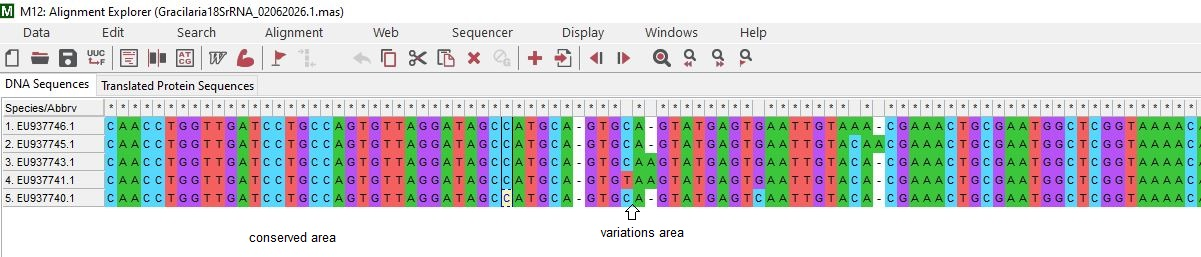
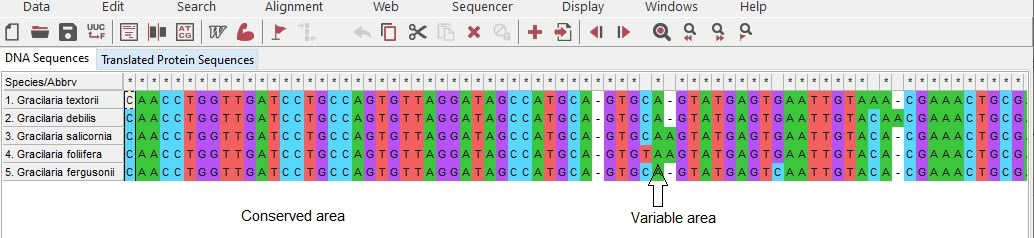
hh

diff --git a/_posts/2026-06-27_Houskeeping_and_Target_Genes_Post.md b/_posts/2026-06-27_Houskeeping_and_Target_Genes_Post.md
@@ -1,0 +1,130 @@
+# Molecular Responses of Coral Holobionts to Thermal Stress
+
+## Introduction
+
+Over the last several decades, rising global sea surface temperatures (SST) have driven a severe deterioration of marine ecosystems worldwide by inducing the breakdown of the coral-algal symbiosis under heat stress, leading to widespread coral bleaching and accelerated mortality (Swinhoe et al., 2026). These escalating thermal anomalies critically disrupt the early life-history stages of reef-building species, compromising larval and juvenile survival and directly threatening long-term coral recruitment and reef persistence (Drury et al., 2022). Consequently, major research efforts have focused on unraveling the underlying molecular, genetic, and physiological mechanisms that govern either damage susceptibility or adaptive thermal tolerance pathways within scleractinian holobionts. 
+
+The majority of reef-building corals maintain a mutualistic symbiosis with symbiotic dinoflagellates, a foundational relationship upon which their survival and capacity to withstand environmental perturbations heavily depend. Because holobiont performance and bleaching susceptibility are directly dictated by the complex interactions between these compartments, corals must be holistically evaluated as an integrated holobiont rather than isolated entities. Consequently, any comprehensive assessment of thermal tolerance must account for the distinct physiological strategies, evolutionary pressures, and mechanisms of mutual support shared between the coral hosts and their endosymbionts. 
+
+In their study, Colín-García et al. (2025) examined these dynamics under elevated temperatures and utilized two specialized housekeeping genes to accurately normalize molecular stress responses via quantitative PCR (qPCR) (Colín-García et al., 2025): 
+* **Elongation Factor 1-alpha (*EF1α*):** A core housekeeping protein essential for cellular translation during the process of protein synthesis, facilitating translational elongation (Sasikumar et al., 2012).
+* **Cyclophilin (*CYC*):** A molecular chaperone that catalyzes cellular protein folding and maintains structural stability under stress conditions (Rosic et al., 2011).
+
+Ultimately, the reference gene *EF1α* was established as the internal reference control for the coral host to provide a stable baseline for cellular normalization, while *CYC* was validated as the internal reference control for the algal symbiont to ensure robust transcriptional evaluation under thermal stress conditions (Colín-García et al., 2025). 
+
+Pelagic larval stages are considered the dominant dispersal mechanism in corals, meaning that thermal tolerance and responsiveness to environmental cues play a key role in the preservation of coral reefs in an era of climate change. In a comprehensive RNA-Seq analysis, Meyer et al. (2011) demonstrated that hundreds of genes exhibit significant differential expression during these early stages, highlighting the complex molecular shifts triggered by environmental stress. Among these critical pathways, heat stress in corals triggers TNFRSF-mediated apoptosis involving the *tnfsf10* gene (Tumor Necrosis Factor Receptor-Associated Ligand 10). Although corals possess nature's most diverse TNFRSF repertoire, this extrinsic pathway remains largely uninvestigated, providing a strong scientific justification for analyzing the target gene *tnfsf10* via qPCR (Quistad et al., 2014). Another group of key target genes comprises the heat shock protein (HSP) family (such as *Hsp70* and *Hsp90*), which encode molecular chaperones (Swinhoe et al., 2026). These chaperones are fundamentally involved in maintaining regular cellular functions, playing a crucial role in preventing protein denaturation under thermal stress. In addition, these highly conserved proteins participate in cell differentiation, morphogenesis, cell signaling, and the overall protection of cells against severe stress and apoptosis (Rosic et al., 2011). 
+
+---
+
+## Experimental Setup and Hypotheses Under Thermal Stress
+
+### Experimental Manipulation
+Thermal stress acts as a major environmental perturbation that disrupts cell homeostasis, destabilizes protein conformations, and induces the breakdown of the coral-algal symbiosis. To unravel the underlying molecular mechanisms governing damage susceptibility or adaptive resilience in scleractinian corals, I chose to evaluate the transcriptional responses of pelagic larval stages subjected to an acute thermal stress manipulation compared to an ambient control group (normal SST temperature conditions).
+
+### 🧬 1. Internal Reference Genes (Expected Stability)
+
+* **Elongation Factor 1-alpha (*EF1α*)**
+  * **Expected Expression:** Highly stable, constant baseline expression levels. 
+  * **Justification:** Given its continuous and fundamental role in translational elongation (Sasikumar et al., 2012), its transcription remains unaffected by environmental shifts, making it an ideal baseline for coral host normalization under thermal stress. 
+
+* **Cyclophilin (*CYC*)**
+  * **Expected Expression:** Constant, unaltered transcription levels across all groups.
+  * **Justification:** As a highly conserved chaperone required for baseline protein folding, its transcriptional resilience under severe thermal and light stress makes it a validated reference control for the *Symbiodiniaceae* compartment (Rosic et al., 2011).
+
+---
+
+### 🎯 2. Experimental Target Genes (Expected Dynamics)
+
+* **Heat Shock Proteins (*HSP*, e.g., *Hsp70* and *Hsp90*)**
+  * **Expected Expression:** Sharp, significant upregulation under elevated temperatures. 
+  * **Justification:** Because heat stress directly denatures cellular proteins, the dynamic overexpression of these molecular chaperones is critically required to mitigate oxidative damage, refold damaged proteins, and prevent thermal bleaching (Rosic et al., 2011; Swinhoe et al., 2026). Furthermore, an early, synchronized upregulation of *hsp70* across both symbiont and host compartments represents a critical molecular strategy that minimizes bleaching susceptibility.
+
+* **Tumor Necrosis Factor Receptor-Associated Ligand 10 (*tnfsf10*)**
+  * **Expected Expression:** Pronounced upregulation corresponding to stress intensity. 
+  * **Justification:** When thermal stress surpasses cellular protective thresholds, the initiation of programmed cell death triggers the extrinsic apoptotic pathway. Tracking *tnfsf10* transcript dynamics serves as a highly sensitive biomarker for quantifying stress-induced cellular mortality (Quistad et al., 2014).# Molecular Responses of Coral Holobionts to Thermal Stress
+
+## Introduction
+
+Over the last several decades, rising global sea surface temperatures (SST) have driven a severe deterioration of marine ecosystems worldwide by inducing the breakdown of the coral-algal symbiosis under heat stress, leading to widespread coral bleaching and accelerated mortality (Swinhoe et al., 2026). These escalating thermal anomalies critically disrupt the early life-history stages of reef-building species, compromising larval and juvenile survival and directly threatening long-term coral recruitment and reef persistence (Drury et al., 2022). Consequently, major research efforts have focused on unraveling the underlying molecular, genetic, and physiological mechanisms that govern either damage susceptibility or adaptive thermal tolerance pathways within scleractinian holobionts. 
+
+The majority of reef-building corals maintain a mutualistic symbiosis with symbiotic dinoflagellates, a foundational relationship upon which their survival and capacity to withstand environmental perturbations heavily depend. Because holobiont performance and bleaching susceptibility are directly dictated by the complex interactions between these compartments, corals must be holistically evaluated as an integrated holobiont rather than isolated entities. Consequently, any comprehensive assessment of thermal tolerance must account for the distinct physiological strategies, evolutionary pressures, and mechanisms of mutual support shared between the coral hosts and their endosymbionts. 
+
+In their study, Colín-García et al. (2025) examined these dynamics under elevated temperatures and utilized two specialized housekeeping genes to accurately normalize molecular stress responses via quantitative PCR (qPCR) (Colín-García et al., 2025): 
+* **Elongation Factor 1-alpha (*EF1α*):** A core housekeeping protein essential for cellular translation during the process of protein synthesis, facilitating translational elongation (Sasikumar et al., 2012).
+* **Cyclophilin (*CYC*):** A molecular chaperone that catalyzes cellular protein folding and maintains structural stability under stress conditions (Rosic et al., 2011).
+
+Ultimately, the reference gene *EF1α* was established as the internal reference control for the coral host to provide a stable baseline for cellular normalization, while *CYC* was validated as the internal reference control for the algal symbiont to ensure robust transcriptional evaluation under thermal stress conditions (Colín-García et al., 2025). 
+
+Pelagic larval stages are considered the dominant dispersal mechanism in corals, meaning that thermal tolerance and responsiveness to environmental cues play a key role in the preservation of coral reefs in an era of climate change. In a comprehensive RNA-Seq analysis, Meyer et al. (2011) demonstrated that hundreds of genes exhibit significant differential expression during these early stages, highlighting the complex molecular shifts triggered by environmental stress. Among these critical pathways, heat stress in corals triggers TNFRSF-mediated apoptosis involving the *tnfsf10* gene (Tumor Necrosis Factor Receptor-Associated Ligand 10). Although corals possess nature's most diverse TNFRSF repertoire, this extrinsic pathway remains largely uninvestigated, providing a strong scientific justification for analyzing the target gene *tnfsf10* via qPCR (Quistad et al., 2014). Another group of key target genes comprises the heat shock protein (HSP) family (such as *Hsp70* and *Hsp90*), which encode molecular chaperones (Swinhoe et al., 2026). These chaperones are fundamentally involved in maintaining regular cellular functions, playing a crucial role in preventing protein denaturation under thermal stress. In addition, these highly conserved proteins participate in cell differentiation, morphogenesis, cell signaling, and the overall protection of cells against severe stress and apoptosis (Rosic et al., 2011). 
+
+---
+
+## Experimental Setup and Hypotheses Under Thermal Stress
+
+### Experimental Manipulation
+Thermal stress acts as a major environmental perturbation that disrupts cell homeostasis, destabilizes protein conformations, and induces the breakdown of the coral-algal symbiosis. To unravel the underlying molecular mechanisms governing damage susceptibility or adaptive resilience in scleractinian corals, I chose to evaluate the transcriptional responses of pelagic larval stages subjected to an acute thermal stress manipulation compared to an ambient control group (normal SST temperature conditions).
+
+### 🧬 1. Internal Reference Genes (Expected Stability)
+
+* **Elongation Factor 1-alpha (*EF1α*)**
+  * **Expected Expression:** Highly stable, constant baseline expression levels. 
+  * **Justification:** Given its continuous and fundamental role in translational elongation (Sasikumar et al., 2012), its transcription remains unaffected by environmental shifts, making it an ideal baseline for coral host normalization under thermal stress. 
+
+* **Cyclophilin (*CYC*)**
+  * **Expected Expression:** Constant, unaltered transcription levels across all groups.
+  * **Justification:** As a highly conserved chaperone required for baseline protein folding, its transcriptional resilience under severe thermal and light stress makes it a validated reference control for the *Symbiodiniaceae* compartment (Rosic et al., 2011).
+
+---
+
+### 🎯 2. Experimental Target Genes (Expected Dynamics)
+
+* **Heat Shock Proteins (*HSP*, e.g., *Hsp70* and *Hsp90*)**
+  * **Expected Expression:** Sharp, significant upregulation under elevated temperatures. 
+  * **Justification:** Because heat stress directly denatures cellular proteins, the dynamic overexpression of these molecular chaperones is critically required to mitigate oxidative damage, refold damaged proteins, and prevent thermal bleaching (Rosic et al., 2011; Swinhoe et al., 2026). Furthermore, an early, synchronized upregulation of *hsp70* across both symbiont and host compartments represents a critical molecular strategy that minimizes bleaching susceptibility.
+
+* **Tumor Necrosis Factor Receptor-Associated Ligand 10 (*tnfsf10*)**
+  * **Expected Expression:** Pronounced upregulation corresponding to stress intensity. 
+  * **Justification:** When thermal stress surpasses cellular protective thresholds, the initiation of programmed cell death triggers the extrinsic apoptotic pathway. Tracking *tnfsf10* transcript dynamics serves as a highly sensitive biomarker for quantifying stress-induced cellular mortality (Quistad et al., 2014).# Molecular Responses of Coral Holobionts to Thermal Stress
+
+## Introduction
+
+Over the last several decades, rising global sea surface temperatures (SST) have driven a severe deterioration of marine ecosystems worldwide by inducing the breakdown of the coral-algal symbiosis under heat stress, leading to widespread coral bleaching and accelerated mortality (Swinhoe et al., 2026). These escalating thermal anomalies critically disrupt the early life-history stages of reef-building species, compromising larval and juvenile survival and directly threatening long-term coral recruitment and reef persistence (Drury et al., 2022). Consequently, major research efforts have focused on unraveling the underlying molecular, genetic, and physiological mechanisms that govern either damage susceptibility or adaptive thermal tolerance pathways within scleractinian holobionts. 
+
+The majority of reef-building corals maintain a mutualistic symbiosis with symbiotic dinoflagellates, a foundational relationship upon which their survival and capacity to withstand environmental perturbations heavily depend. Because holobiont performance and bleaching susceptibility are directly dictated by the complex interactions between these compartments, corals must be holistically evaluated as an integrated holobiont rather than isolated entities. Consequently, any comprehensive assessment of thermal tolerance must account for the distinct physiological strategies, evolutionary pressures, and mechanisms of mutual support shared between the coral hosts and their endosymbionts. 
+
+In their study, Colín-García et al. (2025) examined these dynamics under elevated temperatures and utilized two specialized housekeeping genes to accurately normalize molecular stress responses via quantitative PCR (qPCR) (Colín-García et al., 2025): 
+* **Elongation Factor 1-alpha (*EF1α*):** A core housekeeping protein essential for cellular translation during the process of protein synthesis, facilitating translational elongation (Sasikumar et al., 2012).
+* **Cyclophilin (*CYC*):** A molecular chaperone that catalyzes cellular protein folding and maintains structural stability under stress conditions (Rosic et al., 2011).
+
+Ultimately, the reference gene *EF1α* was established as the internal reference control for the coral host to provide a stable baseline for cellular normalization, while *CYC* was validated as the internal reference control for the algal symbiont to ensure robust transcriptional evaluation under thermal stress conditions (Colín-García et al., 2025). 
+
+Pelagic larval stages are considered the dominant dispersal mechanism in corals, meaning that thermal tolerance and responsiveness to environmental cues play a key role in the preservation of coral reefs in an era of climate change. In a comprehensive RNA-Seq analysis, Meyer et al. (2011) demonstrated that hundreds of genes exhibit significant differential expression during these early stages, highlighting the complex molecular shifts triggered by environmental stress. Among these critical pathways, heat stress in corals triggers TNFRSF-mediated apoptosis involving the *tnfsf10* gene (Tumor Necrosis Factor Receptor-Associated Ligand 10). Although corals possess nature's most diverse TNFRSF repertoire, this extrinsic pathway remains largely uninvestigated, providing a strong scientific justification for analyzing the target gene *tnfsf10* via qPCR (Quistad et al., 2014). Another group of key target genes comprises the heat shock protein (HSP) family (such as *Hsp70* and *Hsp90*), which encode molecular chaperones (Swinhoe et al., 2026). These chaperones are fundamentally involved in maintaining regular cellular functions, playing a crucial role in preventing protein denaturation under thermal stress. In addition, these highly conserved proteins participate in cell differentiation, morphogenesis, cell signaling, and the overall protection of cells against severe stress and apoptosis (Rosic et al., 2011). 
+
+---
+
+## Experimental Setup and Hypotheses Under Thermal Stress
+
+### Experimental Manipulation
+Thermal stress acts as a major environmental perturbation that disrupts cell homeostasis, destabilizes protein conformations, and induces the breakdown of the coral-algal symbiosis. To unravel the underlying molecular mechanisms governing damage susceptibility or adaptive resilience in scleractinian corals, I chose to evaluate the transcriptional responses of pelagic larval stages subjected to an acute thermal stress manipulation compared to an ambient control group (normal SST temperature conditions).
+
+### 🧬 1. Internal Reference Genes (Expected Stability)
+
+* **Elongation Factor 1-alpha (*EF1α*)**
+  * **Expected Expression:** Highly stable, constant baseline expression levels. 
+  * **Justification:** Given its continuous and fundamental role in translational elongation (Sasikumar et al., 2012), its transcription remains unaffected by environmental shifts, making it an ideal baseline for coral host normalization under thermal stress. 
+
+* **Cyclophilin (*CYC*)**
+  * **Expected Expression:** Constant, unaltered transcription levels across all groups.
+  * **Justification:** As a highly conserved chaperone required for baseline protein folding, its transcriptional resilience under severe thermal and light stress makes it a validated reference control for the *Symbiodiniaceae* compartment (Rosic et al., 2011).
+
+---
+
+### 🎯 2. Experimental Target Genes (Expected Dynamics)
+
+* **Heat Shock Proteins (*HSP*, e.g., *Hsp70* and *Hsp90*)**
+  * **Expected Expression:** Sharp, significant upregulation under elevated temperatures. 
+  * **Justification:** Because heat stress directly denatures cellular proteins, the dynamic overexpression of these molecular chaperones is critically required to mitigate oxidative damage, refold damaged proteins, and prevent thermal bleaching (Rosic et al., 2011; Swinhoe et al., 2026). Furthermore, an early, synchronized upregulation of *hsp70* across both symbiont and host compartments represents a critical molecular strategy that minimizes bleaching susceptibility.
+
+* **Tumor Necrosis Factor Receptor-Associated Ligand 10 (*tnfsf10*)**
+  * **Expected Expression:** Pronounced upregulation corresponding to stress intensity. 
+  * **Justification:** When thermal stress surpasses cellular protective thresholds, the initiation of programmed cell death triggers the extrinsic apoptotic pathway. Tracking *tnfsf10* transcript dynamics serves as a highly sensitive biomarker for quantifying stress-induced cellular mortality (Quistad et al., 2014).